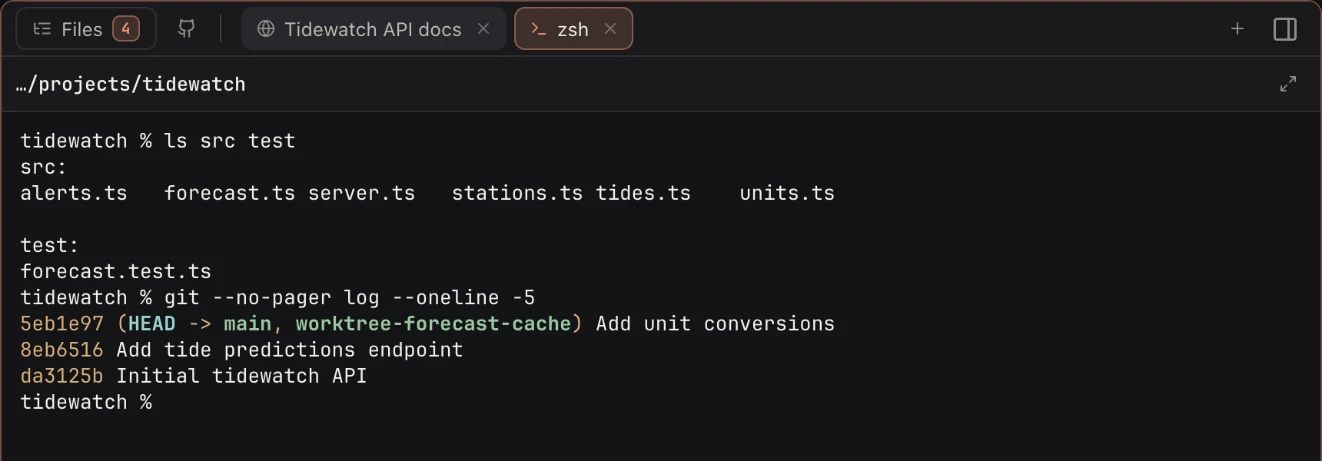
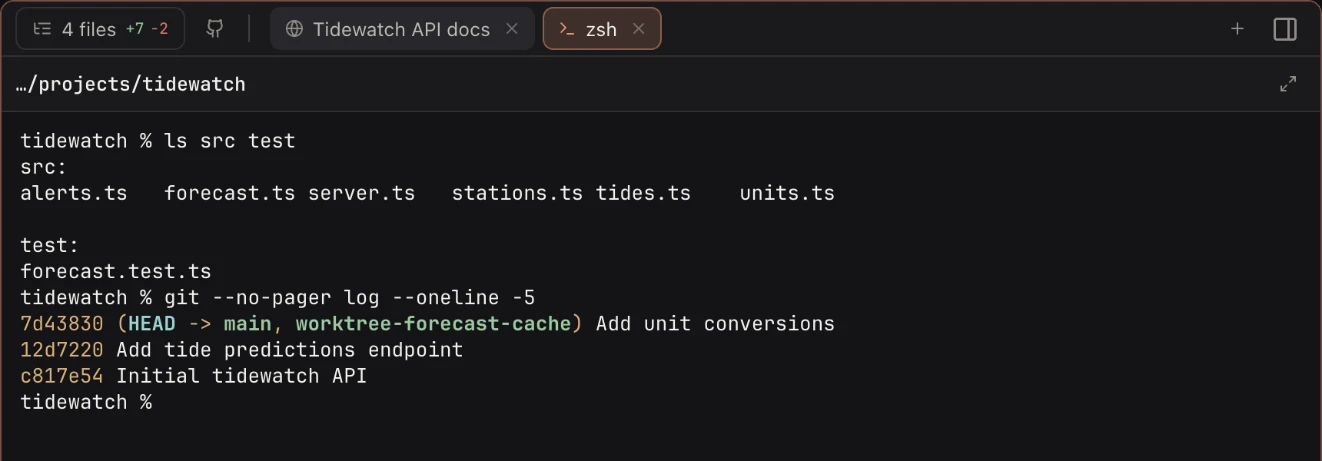
docs(site): the open Workbench's Files tab reads like the folded card, and a ⌘P or Assist session never reuses a worktree

Changed region(s): [[0.031, 0.0, 0.5272, 0.1215], [0.0, 0.6681, 0.093, 0.8503]]

diff --git a/site/sessions/index.html b/site/sessions/index.html
@@ -326,9 +326,11 @@
         <ul class="dash">
           <li>
             A session you ask for in <kbd>⌘P</kbd>, and one Assist starts, gets its own worktree too
-            in a folder git tracks, never the folder itself. Assist names it; when it does not, the
-            worktree is called <code class="nowrap">session-&lt;date&gt;-&lt;time&gt;</code>. Claude
-            Code and Codex both do this, and <kbd>⌘P</kbd> does it on a
+            in a folder git tracks, never the folder itself. It is always a new worktree, never one
+            that is already there. Assist names it; when it does not, the worktree is called
+            <code class="nowrap">session-&lt;date&gt;-&lt;time&gt;</code>. A name already in use
+            gets <code class="nowrap">-2</code> after it, then <code class="nowrap">-3</code>.
+            Claude Code and Codex both do this, and <kbd>⌘P</kbd> does it on a
             <a href="../remote/">remote folder</a> too. <kbd>⌘N</kbd> still starts in the folder.
           </li>
           <li>

diff --git a/site/agents/index.html b/site/agents/index.html
@@ -126,8 +126,9 @@
           <li>
             <code>koloft session new</code> — start a session of the same kind (Claude starts
             Claude, Codex starts Codex), in its own git worktree with
-            <code class="nowrap">-w</code>. Only Assist (see below) can pick the other kind, with
-            <code class="nowrap">--backend</code>; and when Assist leaves out
+            <code class="nowrap">-w</code>; a name already in use gets
+            <code class="nowrap">-2</code> after it. Only Assist (see below) can pick the other
+            kind, with <code class="nowrap">--backend</code>; and when Assist leaves out
             <code class="nowrap">-w</code> in a folder git tracks, Koloft still makes one (see
             <a href="../sessions/#worktrees">worktree sessions</a>). Its row hangs under the session
             that started it (see <a href="../sessions/#session-tree">sessions an agent starts</a>).

diff --git a/site/workbench/index.html b/site/workbench/index.html
@@ -149,6 +149,11 @@
           compare with: changes since the branch started, or only the ones not committed yet.
         </p>
         <p>
+          The Files tab at the top left reads like the folded card: <code>4 files +7 −2</code>, or
+          <code>No changes</code>. When git has nothing to compare, as in a folder git does not
+          track or one with no commit yet, it just says <code>Files</code>.
+        </p>
+        <p>
           Each hunk (one block of changed lines) has <code>✎ comment</code> in its header. Click it,
           write a note, press <kbd>⏎</kbd>: the file path, the hunk and your note land in the
           session's input box, not sent. You read it over and press <kbd>⏎</kbd> there. The same in
